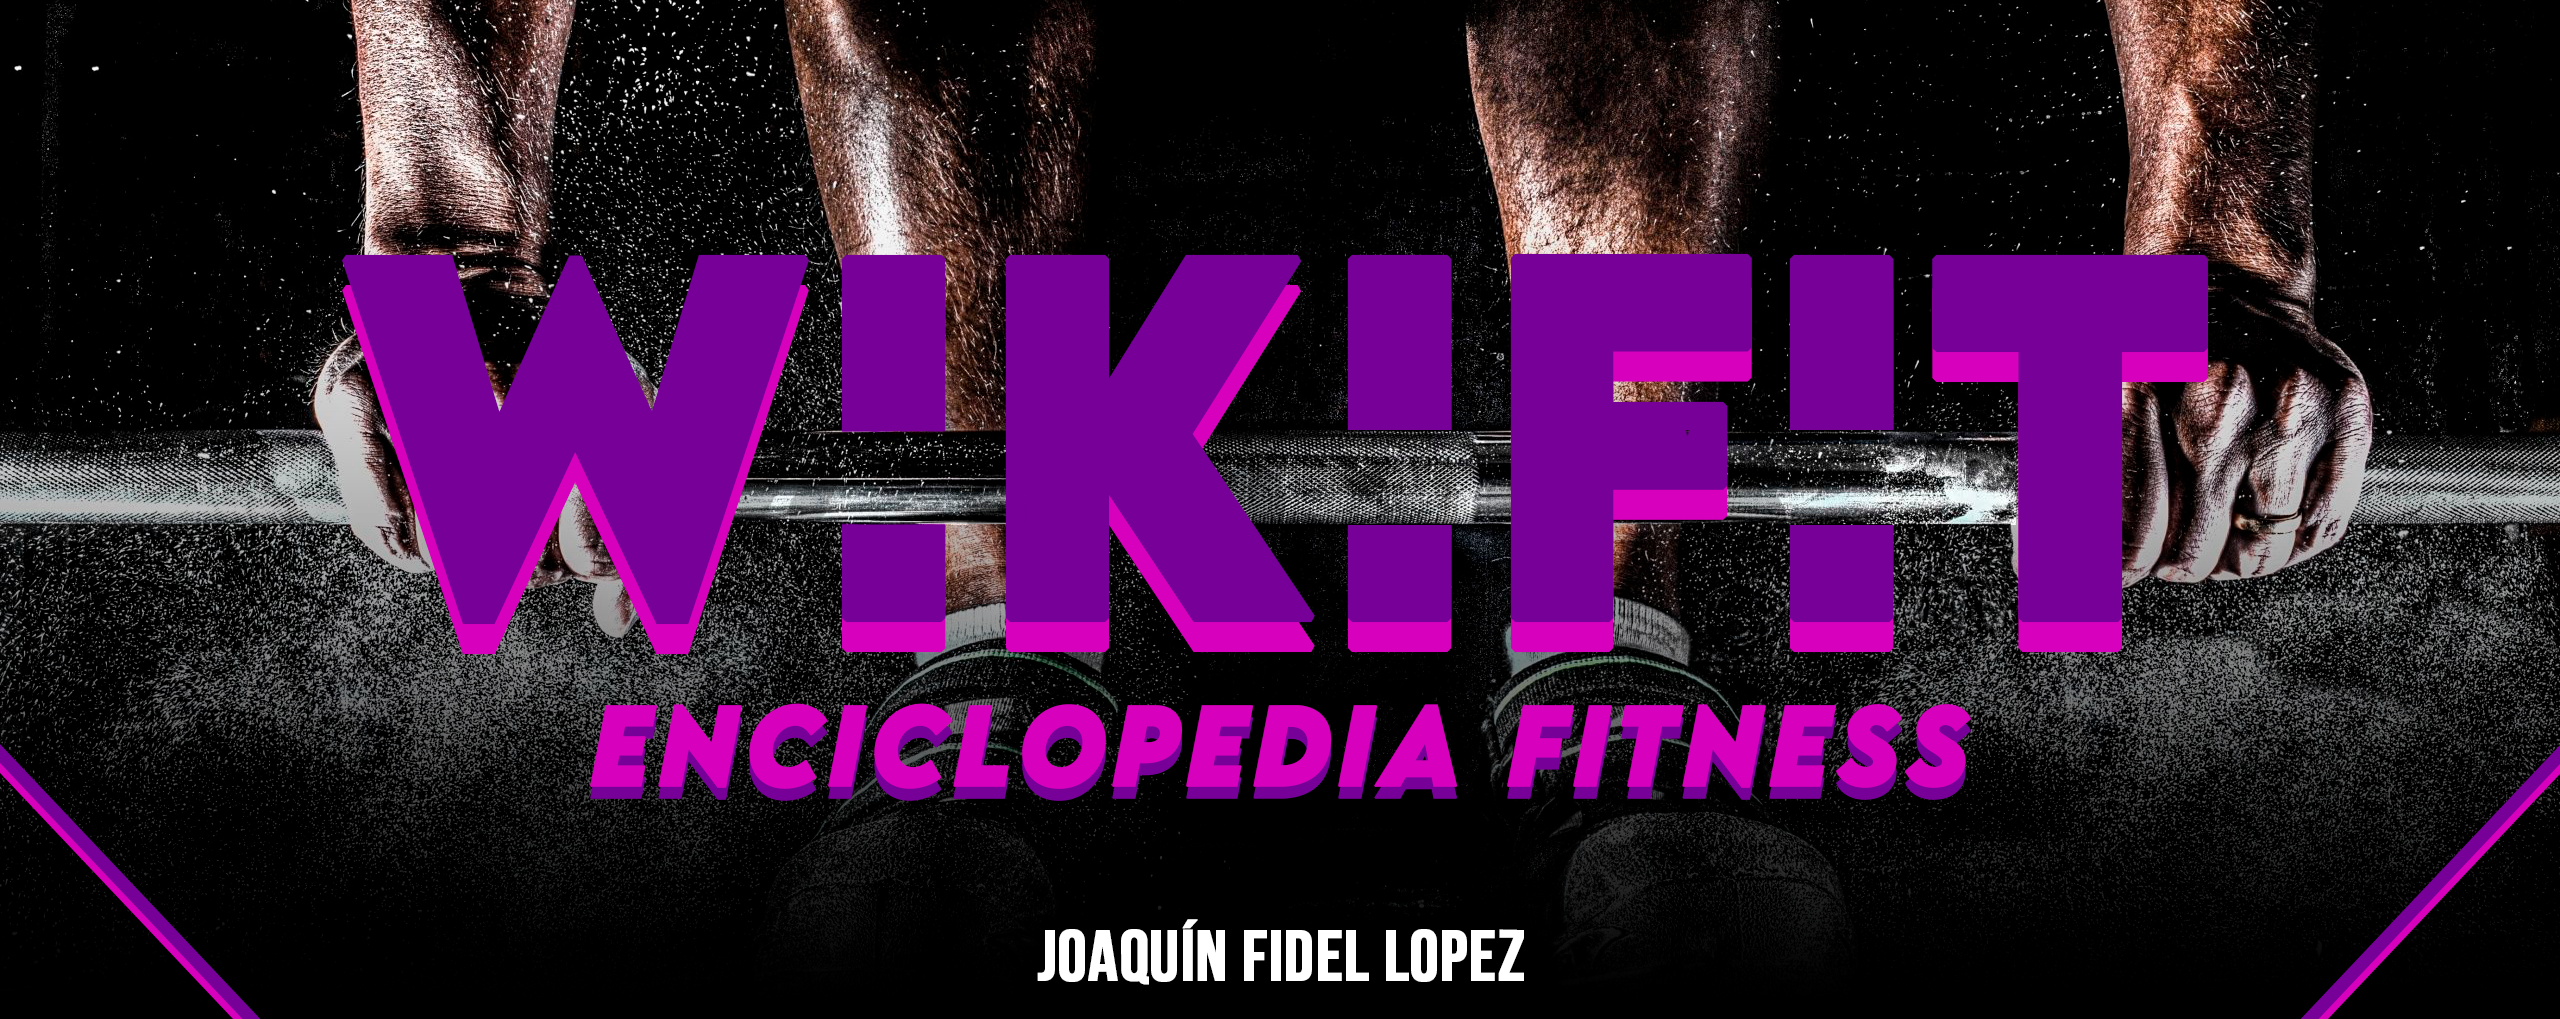
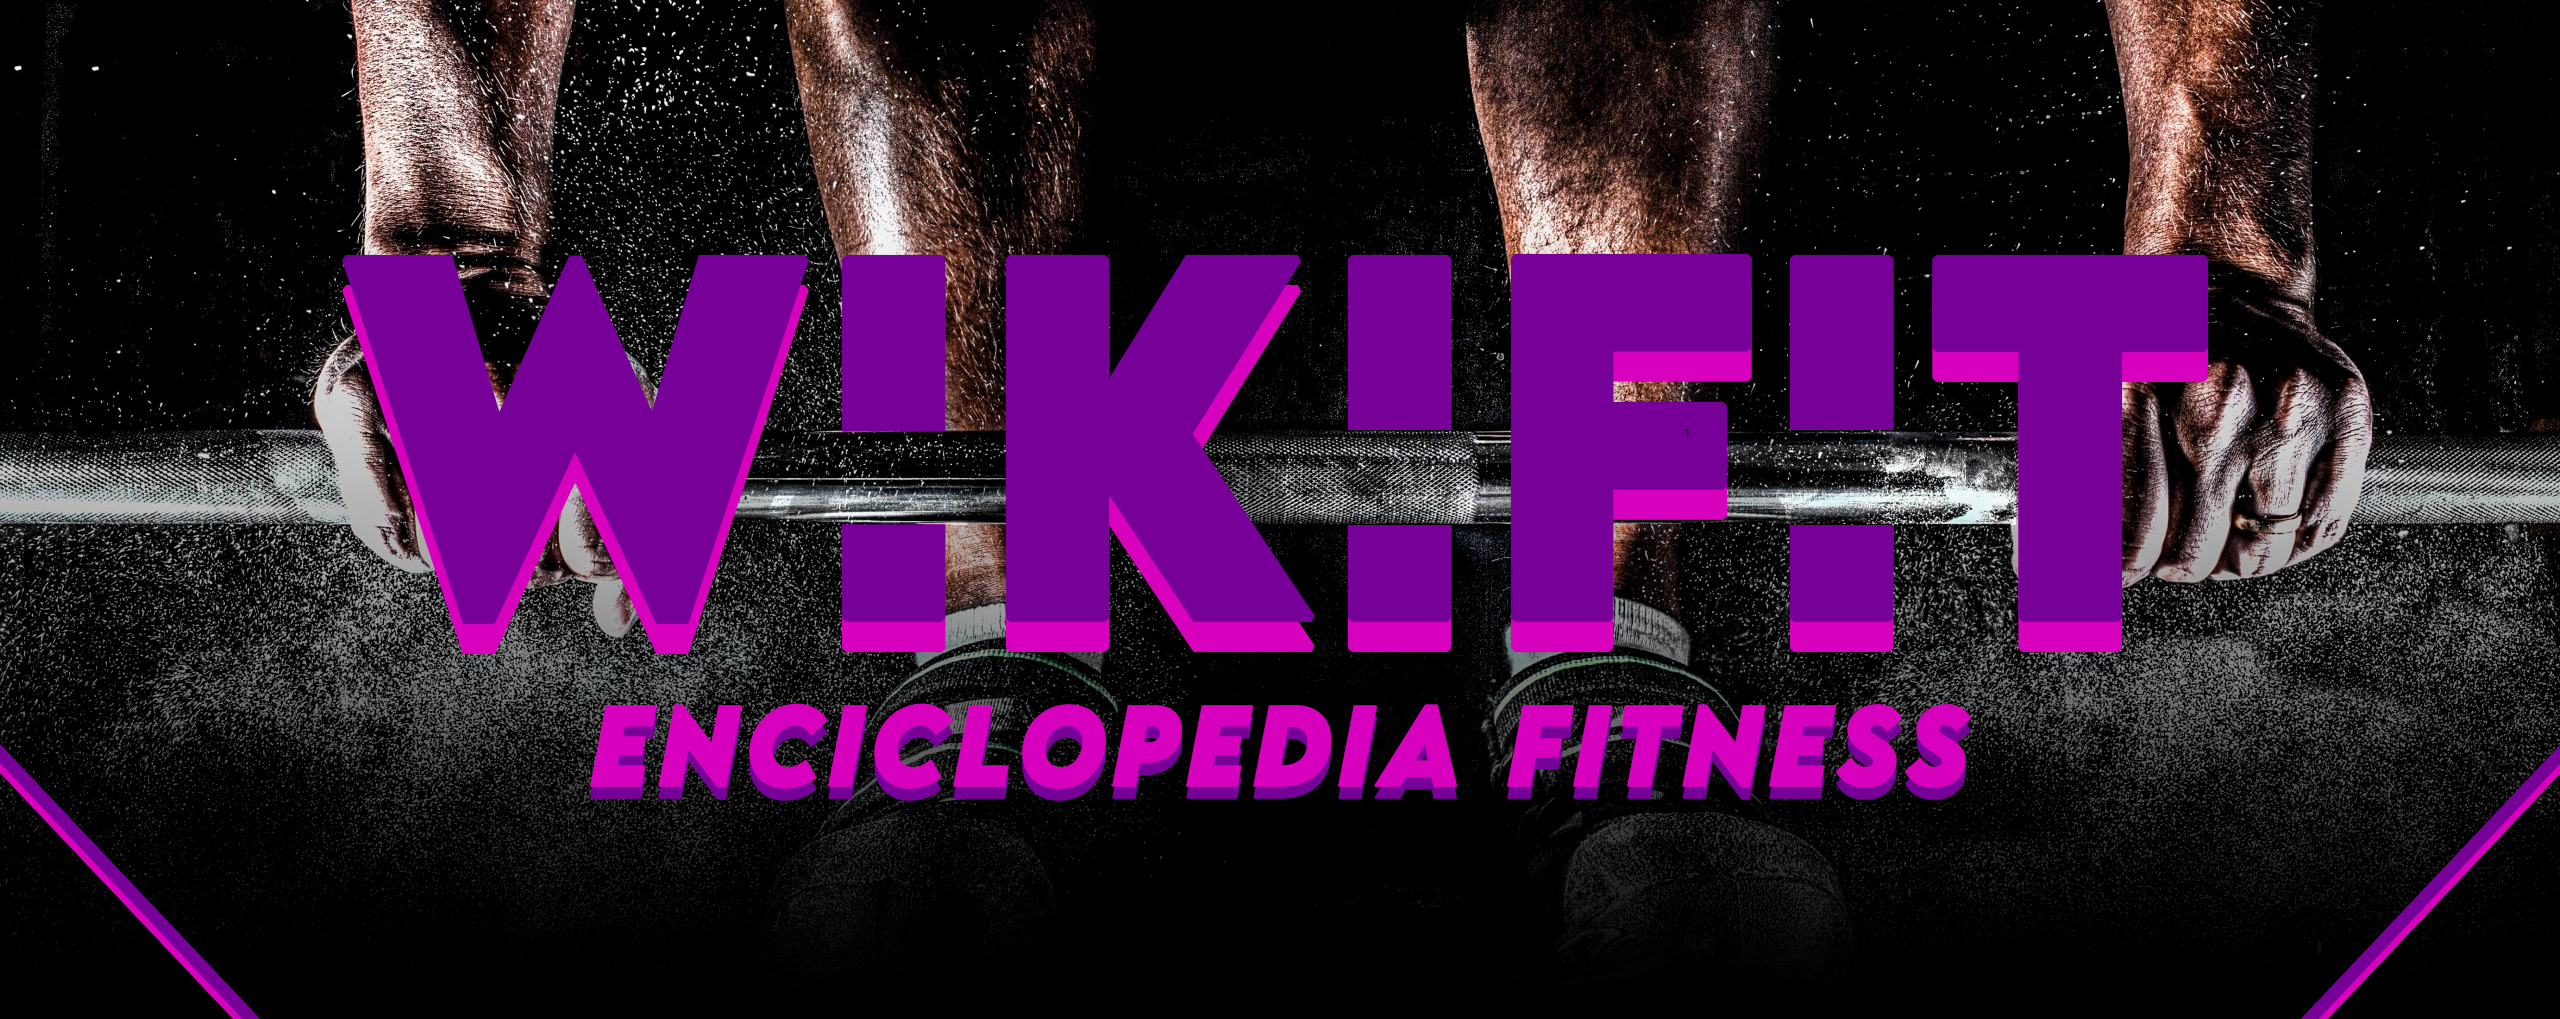
ajustes generales y quitando seccion de integrants

Changed region(s): [[0.4062, 0.9127, 0.5938, 0.9735]]

diff --git a/styles.css b/styles.css
@@ -23,6 +23,7 @@ h1,
 h2,
 h3 {
   user-select: none;
+  transition: 300ms;
 }
 
 i {
@@ -42,6 +43,11 @@ h3 {
 .contenido .col {
   margin-right: 2rem; /* Ajusta el valor según sea necesario */
   border: #b800b8;
+}
+
+h2:hover,
+h3:hover {
+  text-shadow: 1px 1px 1px white;
 }
 
 /* Para evitar que el último elemento tenga margen derecho */
@@ -178,7 +184,6 @@ nav .nav-link:hover {
 #rutinas,
 #nutricion,
 #faq,
-#grupo30,
 #iframe,
 #extras,
 #canciones {
@@ -186,8 +191,21 @@ nav .nav-link:hover {
   color: white;
   box-shadow: 2px 2px 10px #b800b8;
   border-radius: 10px;
-  user-select: none;
-  
+  user-select: none; 
+  transition: 300ms;
+}
+
+#ejercicios:hover,
+#guia:hover,
+#rutinas:hover,
+#nutricion:hover,
+#faq:hover,
+#grupo30:hover,
+#iframe:hover,
+#extras:hover,
+#canciones:hover{
+  background-color: #0e0014;
+  box-shadow: 2px 2px 15px #b800b8;
 }
 
 #guia p,
@@ -301,14 +319,18 @@ nav .nav-link:hover {
 /* Carousel */
 
 .row .carousel {
-  box-shadow: 1px 1px 17px #d400ff;
+  box-shadow: 2px 2px 10px #d400ff;
   border-radius: 10px;
-  background-color: #3b0058;
+  background-color: #09000d;
+}
+
+.row .carousel:hover {
+  background-color: #0e0014;
+  box-shadow: 2px 2px 15px #d400ff;
 }
 
 .row .carousel .carousel-item {
   position: relative;
-  background-color: #3b0058;
 }
 
 .row .carousel H2 {
@@ -416,20 +438,20 @@ footer .bi-check-square:hover {
   font-size: 1.5rem;
 }
 
-#mail {
+/* #mail {
   text-decoration: none;
 }
 
 #mail:hover {
   text-decoration: underline;
-}
+} */
 
-#contacto {
+#repositorio {
   color: black;
   font-size: 1.8rem;
 }
 
-#contacto i {
+#repositorio i {
   font-size: 2rem;
   color: black;
 }
@@ -444,8 +466,14 @@ footer .bi-check-square:hover {
   color: white;
 }
 
+#grupo p{
+  color: black;
+  font-size: 1.7rem;
+  font-weight: bolder;
+  margin: 0;
+}
 
-#integrantes {
+/* #integrantes {
   text-decoration: none;
   color: black;
   font-size: 1.7rem;
@@ -455,6 +483,31 @@ footer .bi-check-square:hover {
 
 #integrantes:hover {
   color: white;
+} */
+
+/* scroll bar  */
+
+/* Estilo general para la barra de desplazamiento */
+::-webkit-scrollbar {
+  width: 12px; /* Ancho de la barra vertical */
+  height: 12px; /* Altura de la barra horizontal */
+}
+
+/* Estilo para la pista de la barra de desplazamiento */
+::-webkit-scrollbar-track {
+  background: #09000d; /* Color de fondo de la pista */
+  border-radius: 10px; /* Bordes redondeados */
+}
+
+/* Estilo para el pulgar de la barra de desplazamiento */
+::-webkit-scrollbar-thumb {
+  background: #8d00ce; /* Color del pulgar */
+  border-radius: 10px; /* Bordes redondeados */
+}
+
+/* Estilo para el pulgar cuando se está en hover */
+::-webkit-scrollbar-thumb:hover {
+  background: #7d00b8; /* Color del pulgar en hover */
 }
 
 

diff --git a/components/integrantes/integrantes.html b/components/integrantes/integrantes.html
@@ -47,20 +47,20 @@
         <section class="row">
           <article class="col">
             <div class="info-integrante">
-              <img src="integrantes-img/Lucas.jpeg" alt="" />
-              <h3>Lucas<br />Kortebani</h3>
+              <img src="integrantes-img/Profile.jpg" alt="" />
+              <h3>********<br />*********</h3>
             </div>
             <br />
             <div class="contacto-integrante">
               <p>
                 <i class="bi bi-envelope"></i>
                 :
-                <a href="mailto:lucasck17@gmail.com"> lucasck17@gmail.com</a>
+                <a href="#"> **********@gmail.com</a>
               </p>
               <p>
                 <i class="bi bi-telephone-fill"></i>
                 :
-                <a href=""> +54 9 11 5120-2000</a>
+                <a href="">*************</a>
               </p>
               <p>
                 <i class="bi bi-github"></i>

diff --git a/components/footer.html b/components/footer.html
@@ -2,7 +2,7 @@
   <div class="row">
     <div class="col-md-4 mt-2 contacto">
       <hr>
-      <p id="contacto">Repositorio <i class="bi bi-github"></i
+      <p id="repositorio">Repositorio <i class="bi bi-github"></i
         >:</p>
       <p>
         <a
@@ -41,9 +41,10 @@
       <br />
       <span id="año">©2024</span>
     </div>
-    <div class="col-md-4 mt-2">
+    <div class="col-md-4 mt-2" id="grupo">
       <hr>
-      <a id="integrantes" href="../../../components/integrantes/integrantes.html">Integrantes<br>GRUPO 30 >></strong></a>
+        <p>GRUPO 30</p>
+        <p>Codo a Codo</p>
       <hr>
     </div>
     <!-- <div class="col-md-4 mt-3">

diff --git a/components/navbar.html b/components/navbar.html
@@ -23,7 +23,7 @@
         <a class="nav-link" href="../../../components/rutinas/rutinas.html">Rutinas</a>
       </li>
       <li class="nav-item">
-        <a class="nav-link" href="../../../components/faq/faq.html">FAQ</a>
+        <a class="nav-link" href="../../../components/form/form.html">Ingresar</a>
       </li>
     </ul>
   </div>

diff --git a/components/contenidos-index/index-navbar.html b/components/contenidos-index/index-navbar.html
@@ -23,7 +23,7 @@
           <a class="nav-link" href="../components/rutinas/rutinas.html">Rutinas</a>
         </li>
         <li class="nav-item">
-          <a class="nav-link" href="../components/faq/faq.html">FAQ</a>
+          <a class="nav-link" href="../components/form/form.html">Ingresar</a>
         </li>
       </ul>
     </div>
